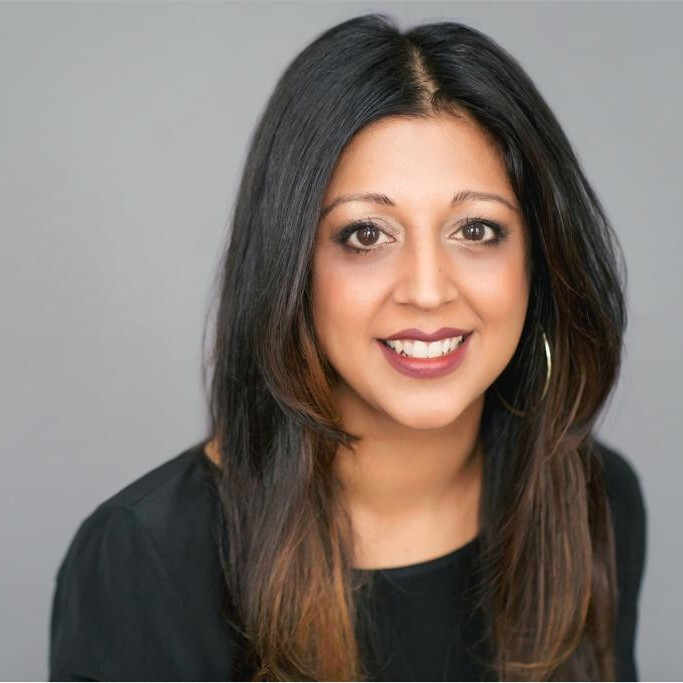
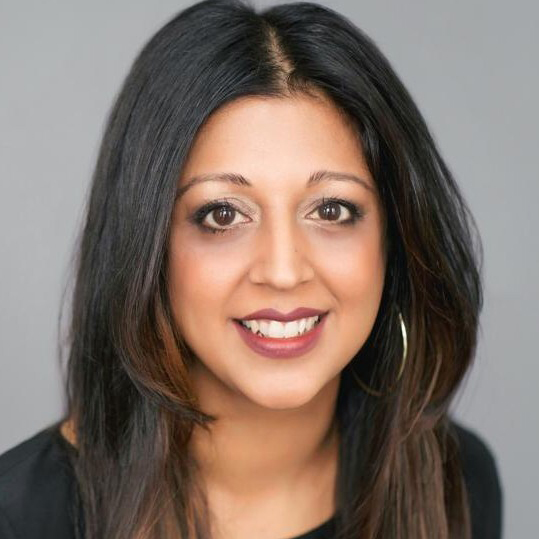
styly sekcie future/spravne obrazky vsade

diff --git a/index.html b/index.html
@@ -82,7 +82,7 @@
 
             <p class="py-8 sm:py-14">Testimonials of our telecom partners speak about how COVID-19 forced the industry to innovate and rethink its approach to customer service.</p>
             <div class="gray-art flex relative flex-wrap sm:flex-nowrap">
-                <img class="w-40 h-40 ml-8 mt-8 sm:my-8 rounded-full" src="./img/avatar.svg" alt="Figure">
+                <img class="w-40 h-40 ml-8 mt-8 sm:my-8 rounded-full" src="./img/jan_nekovar.jpg" alt="Figure">
                 <article class="py-8 px-8 text-base align-middle">‘The health of our employees and customers has been the number one priority from the start. From there, we could focus on bringing the business up to speed by embracing new activities in our stores like serving our customers over the phone and much more.’
                     <span class="block pt-3">Jan Nekovář, Director, Retail Channels & D2D, O2 Czech Republic
                     </span>
@@ -91,7 +91,7 @@
 
             <p class="py-8 sm:-mt-8 sm:pb-14 md:-mt-0 md:py-14">Impact on the day-to-day business was tremendous, but telecom retailers have stood their ground. After having established all necessary health-related precautions, they continued with keeping business afloat.</p>
             <div class="gray-art flex relative flex-wrap sm:flex-nowrap">
-                <img class="w-40 h-40 ml-8 mt-8 sm:my-8 rounded-full" src="./img/avatar.svg" alt="Figure">
+                <img class="w-40 h-40 ml-8 mt-8 sm:my-8 rounded-full" src="./img/jan_gabauer.jpg" alt="Figure">
                 <article class="py-8 px-8 text-base align-middle">‘Our customer service department redistributed responsibilities among the employees boosted their ranks to better help customers, both over the phone and online. We do whatever it takes so our customers can do everything from the comfort of their home during the pandemic regulation restriction period and remain satisfied with our service.’
                     <span class="block pt-3">Jan Gabauer, CS Operations Specialist & COPC Auditor for Orange Group, Orange Slovakia
                     </span>
@@ -100,7 +100,7 @@
 
             <p class="py-8 sm:-mt-8 sm:pb-14 md:-mt-0 md:py-14">Service hybridization is one of the ways to manage strain put on the limited personnel due to COVID-19 restrictions. Many of our local telecom partners have opted to start using telesales more. It means employees, who would usually engage in face-to-face communication only, started calling customers on top of their regular responsibilities.</p>
             <div class="gray-art flex relative flex-wrap sm:flex-nowrap">
-                <img class="w-40 h-40 ml-8 mt-8 sm:my-8 rounded-full" src="./img/roman_demeter_telekom.jpg" alt="Figure">
+                <img class="w-40 h-40 ml-8 mt-8 sm:my-8 rounded-full" src="./img/roman_demeter.jpg" alt="Figure">
                 <article class="py-8 px-8 text-base align-middle">‘Even though the pandemic situation has become better, some people are still afraid to visit our stores in person. It’s a period of many unknowns as we’re still getting used to the new patterns in customer behavior. Many of them have fully embraced digital technologies, while others have started calling more.’
                     <span class="block pt-3">Roman Demeter, Sales Channels Transformation Advisor, Slovak Telekom
                     </span>
@@ -115,7 +115,7 @@
                 <header class="mr-10 text-lg sm:text-xl font-bold max-w-xs">The evolution of in-store visits from 2019 to 2021 in weeks</header>
                 <img src="./img/legend.svg" alt="Fig" class="w-1/6">
             </div>
-            <img src="./img/Graf.svg" alt="Fig" class="pt-4 sm:pt-14 w-full">
+            <img src="./img/Graf.png" alt="Fig" class="pt-4 sm:pt-14 w-full">
             <p class="describe-graph pt-1.5 text-xs sm:pt-8 sm:text-sm">The average customer traffic today amounted to approximately 56% of what it used to be in 2019. Compared to customer traffic of 2020, it sits at around 86%. However, there is one thing missing in the statistics, which keeps everyone on their toes - predictability of customer traffic.</p>
             <p class="pt-8 sm:pt-12 md:pt-16 lg:pt-20">Because of this reason alone, the telecom retail industry should focus on real-time data and daily trends. Learning your customers' behavior and needs helps you act upon the learnings quickly and employ adequate measures.</p>
             <a href="https://pygmalios.com/fjasdflweouaf/uploads/2021/05/2-CS-O2.pdf" target="_blank">
@@ -162,7 +162,7 @@
             </div>
             
             <div class="gray-art flex relative flex-wrap mt-14 sm:flex-nowrap">
-                <img class="w-40 h-40 ml-8 mt-8 sm:my-8 rounded-full" src="./img/avatar.svg" alt="Figure">
+                <img class="w-40 h-40 ml-8 mt-8 sm:my-8 rounded-full" src="./img/jan_nekovar.jpg" alt="Figure">
                 <article class="py-8 px-8 text-base align-middle">‘The post-pandemic situation has clearly shown us how an omnichannel approach is necessary for the business to thrive again. Stores and channels communicating with one another in real-time and being optimized for your customers’ specific needs should be the new standard.’
                 <span class="block pt-3">Jan Nekovář, Director, Retail Channels & D2D, O2 Czech Republic
                 </span></article>
@@ -330,62 +330,55 @@
             </div>
         </section>
                 <div class="gray-background">
-                    <section class="w-1/3 sm:w-4/5 mx-auto relative">
-                        <div class="relative sm:py-10 inner-container max-w-5xl xl:w-3/5 xl:mx-auto sm:flex sm:flex-wrap sm:justify-start">
-                            <img class="absolute arrow w-10 sm:w-12 md:w-16" src="./img/arrow.svg" alt="arrow">
-                            <img class="absolute arrow-right w-10 sm:w-12 md:w-16" src="./img/arrow.svg" alt="arrow">
-                            <p class="text-left pre-visit h-40 sm:h-auto sm:w-1/3 text-sm sm:text-lg md:text-xl font-bold">Pre-visit<br>(awareness)</p>
-                            <p class="text-left during-the-visit h-xs sm:h-auto text-sm sm:w-1/3 sm:px-5 lg:px-10 sm:text-lg md:text-xl font-bold">During the visit<br>(conversion)</p>
-                            <p class="text-left post-visit h-xs sm:h-auto text-sm sm:text-lg md:text-xl font-bold sm:pl-10 lg:pl-20">Post-visit<br>(targeting)</p>
+    
+                    <section class="inner-container pb-11 mt-0 w-4/5 mx-auto max-w-5xl xl:w-3/5">
+                        <div class="flex flex-wrap sm:flex-nowrap sm:justify-center sm:max-w-2xl md:max-w-3xl lg:max-w-5xl sm:pr-5 mx-auto">
+                           
+                            <div class="w-full relative">
+                                <p class="pre-visit text-lg font-bold">Pre-visit<br class="hidden sm:block"> (awareness)</p>
+                                <img class="w-56 my-8 sm:-ml-10 sm:h-28 lg:h-36" src="./img/pre-visit.svg" alt="pre-visit">
+                                <div class="relative pb-4 pr-10 lg:pr-20">   
+                                    <img class="pb-4 sm:absolute smile-left w-6" src="./img/smile-up.svg" alt="happy">
+                                    <p class="">Incentivize customers to visit by a local marketing campaign within the walking distance to the store.</p>
+                                </div>
+                                <div class="relative pr-10 lg:pr-20">   
+                                    <img class="sm:absolute smile-left w-5 sm:w-6" src="./img/smile-up.svg" alt="happy">
+                                    <p class="">Send personalized ads based on the type of current offering.</p>
+                                </div>
+                                <img class="my-12 -ml-5 sm:absolute arrow w-12 lg:w-16" src="./img/arrow.svg" alt="arrow">
+                            </div>
+                    
+                            <div class="w-full relative">
+                                <p class="during-the-visit text-lg font-bold">During the visit<br class="hidden sm:block"> (conversion)</p>
+                                <img class="w-56 my-8 sm:-ml-8 sm:h-28 lg:h-36" src="./img/during-the-visit.svg" alt="during the visit">
+                                <div class="relative pb-4 pr-10 lg:pr-20">    
+                                    <img class="sm:absolute smile-left w-5 sm:w-6" src="./img/smile-up.svg" alt="happy">
+                                    <p class="">Make use of a mobile app for in-store guidance and digital experiences.</p>
+                                </div>
+                                <div class="relative pb-4 pr-10 lg:pr-20">    
+                                    <img class="sm:absolute smile-left w-5 sm:w-6" src="./img/smile-up.svg" alt="happy">
+                                    <p class="">Track customer behavior in store and offer recommendations based on their location within the store.</p>
+                                </div>
+                                <div class="relative pr-10 lg:pr-20">
+                                    <img class="sm:absolute smile-left w-5 sm:w-6" src="./img/smile-up.svg" alt="happy">
+                                    <p class="">Utilize sales consultants to guide the customer while browsing and make suggestions based on purchase history.</p>
+                                </div>
+                                <img class="my-12 -ml-5 sm:absolute arrow-right w-12 lg:w-16" src="./img/arrow.svg" alt="arrow">
+                            </div>
+                    
+                            <div class="w-full">
+                                <p class="post-visit text-lg font-bold">Post-visit<br class="hidden sm:block"> (targeting)</p>
+                                <img class="w-56 my-8 sm:-ml-4 sm:h-28 lg:h-36" src="./img/post-visit.svg" alt="pre-visit">
+                                <div class="relative pb-4 pr-10 lg:pr-20">
+                                    <img class="sm:absolute smile-left w-5 sm:w-6" src="./img/smile-up.svg" alt="happy">
+                                    <p class="">Target the customer with a follow-up content and create the opportunity for upsell by personalizing product or service offerings.</p>
+                                </div>
+                            </div>
+                    
                         </div>
                     </section>
-
-                    <section class="w-full mx-auto">
-                        <div class="flex sm:justify-center sm:max-w-2xl md:max-w-3xl lg:max-w-5xl sm:pr-5 mx-auto pt-7 md:pt-14">
-                            <img class="relative w-28 sm:w-40 md:w-60 lg:w-80" src="./img/pre-visit.svg" alt="pre-visit">
-                            <img class="relative w-28 sm:w-40 md:w-60 sm:mx-16 md:mx-8 lg:w-80" src="./img/during-the-visit.svg" alt="during the visit">
-                            <img class="relative w-28 sm:w-40 md:w-60 lg:w-80" src="./img/post-visit.svg" alt="pre-visit">
-                        </div>
-                    <div class="py-5 md:py-10 inner-container w-4/5 mx-auto max-w-5xl xl:w-3/5 flex flex-wrap">
-
-                        <div class="relative w-1/3 pr-10 lg:pr-20">   
-                            <img class="absolute smile-left w-5 sm:w-6" src="./img/smile-up.svg" alt="happy">
-                            <p class="text-left">Incentivize customers to visit by a local marketing campaign within the walking distance to the store.</p>
-                        </div>
-
-                            <div class="relative w-1/3 px-5 lg:px-10">    
-                                <img class="absolute smile-middle w-5 sm:w-6" src="./img/smile-up.svg" alt="happy">
-                                <p class="text-left">Make use of a mobile app for in-store guidance and digital experiences.</p>
-                            </div>
-
-                                <div class="relative w-1/3 pl-10 lg:pl-20">
-                                    <img class="absolute smile-right w-5 sm:w-6" src="./img/smile-up.svg" alt="happy">
-                                    <p class="text-left">Target the customer with a follow-up content and create the opportunity for upsell by personalizing product or service offerings.</p>
-                                </div>
-
-                        <div class="relative w-1/3 pr-10 lg:pr-20">   
-                            <img class="absolute smile-left w-5 sm:w-6" src="./img/smile-up.svg" alt="happy">
-                            <p class="text-left">Send personalized ads based on the type of current offering.</p>
-                        </div>
-
-                            <div class="relative w-1/3 px-5 lg:px-10">    
-                                <img class="absolute smile-middle w-5 sm:w-6" src="./img/smile-up.svg" alt="happy">
-                                <p class="text-left">Track customer behavior in store and offer recommendations based on their location within the store.</p>
-                            </div>
-
-                                <div class="w-1/3"></div>
-
-                        <div class="w-1/3"></div>
-
-                            <div class="relative w-1/3 px-5 pt-8 lg:px-10">
-                                <img class="absolute smile-middle w-5 sm:w-6" src="./img/smile-up.svg" alt="happy">
-                                <p class="text-left">Utilize sales consultants to guide the customer while browsing and make suggestions based on purchase history.</p>
-                            </div>
-
-                        <div class="w-1/3"></div>
-                    </div>
-                </section>
-            </div>
+                </div>
+            
     
         <section class="inner-container mt-0 w-4/5 mx-auto max-w-5xl xl:w-3/5">
             <p class="pt-6 sm:pt-9">Nourish your customer’s loyalty by avoiding generic, default information and build personalized promotional materials and recommendations that will make their journey feel special. 
@@ -461,13 +454,13 @@
                     perPage:2, 
                     perMove:1,
                     fixedWidth:"49%",
-                    gap:"2%"
+                    gap:"2%",
                 },
-                '500':{
+                '550':{
                     perPage:1, 
                     perMove:1,
-                    fixedWidth:"100%",
-                    gap:"0%"
+                    fixedWidth:"80%",
+                    gap:"2%",
                 },
                 },
                 classes: {

diff --git a/myStyles.css b/myStyles.css
@@ -73,7 +73,9 @@ footer p{
 }
 
 .top-image{
-    max-width: 65%;
+    max-width: 85%;
+	left: 0%;
+    top: 0px;
 	} 
 
 @media screen and (min-width: 1024px) {
@@ -134,54 +136,43 @@ footer p{
 
 .arrow{
 	transform: rotate(90deg);
-	top: 13%;
-	left: 20px;
 	}
 
 .arrow-right{
 	transform: rotate(90deg);
-	top: 45%;
-	left: 20px;
 	}
-
-@media screen and (min-width: 450px) {
-	.arrow{
-	transform: rotate(90deg);
-	top: 17%;
-	left: 20px;
-	}
-
-	.arrow-right{
-	transform: rotate(90deg);
-	top: 48%;
-	left: 20px;
-	}
-}
 
 @media screen and (min-width: 640px) {
 	.arrow{
 	transform: rotate(0deg);
-	top: 45%;
-	left: 24%;
+	top: -3%;
+	left: 75%;
 	}
 
 	.arrow-right{
 	transform: rotate(0deg);
-	top: 45%;
-	left: 64%;
+	top: -3%;
+	left: 80%;
 	}
 }
 
-@media screen and (min-width: 768px) {
+@media screen and (min-width: 1024px) {
+	.arrow{
+	transform: rotate(0deg);
+	top: -4%;
+	left: 65%;
+	}
+
 	.arrow-right{
-	top: 45%;
-	left: 61%;
+	transform: rotate(0deg);
+	top: -4%;
+	left: 70%;
 	}
 }
-
 
 .smile-left{
 	left: -30px;
+	top: 5px;
 }
 
 .smile-middle{
@@ -220,11 +211,21 @@ footer p{
 }
 
 .prevv{
-	left: -2.5rem;
-}
+		left: -2.25rem;
+	}
 
-.nextt{
-	right: -2.5rem;
+	.nextt{
+		right: -2.25rem;
+	}
+
+@media screen and (min-width: 500px) {
+	.prevv{
+		left: -2.5rem;
+	}
+
+	.nextt{
+		right: -2.5rem;
+	}
 }
 
 /*
